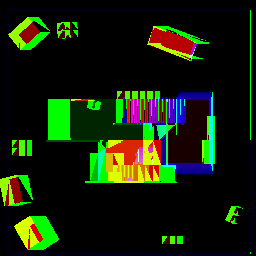
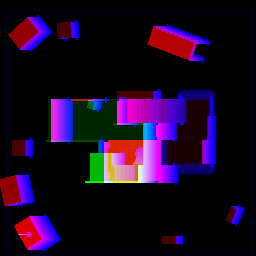
好像计算没啥问题了，但是这方式确实有问题

diff --git a/Assets/ShadowTest/Custom/GenerateMapHeightTex.cs b/Assets/ShadowTest/Custom/GenerateMapHeightTex.cs
@@ -478,6 +478,8 @@ namespace ShadowTest.Custom {
                     triangleInfo.Vertices1 = math.mul(ShadowMatrix, meshInfoVo.MeshWordPos1);
                     triangleInfo.Vertices2 = math.mul(ShadowMatrix, meshInfoVo.MeshWordPos2);
                     triangleInfo.Vertices3 = math.mul(ShadowMatrix, meshInfoVo.MeshWordPos3);
+                    triangleInfo.Normal = math.normalize(math.cross(triangleInfo.Vertices2 - triangleInfo.Vertices1,
+                        triangleInfo.Vertices3 - triangleInfo.Vertices2));
                 }
 
                 CheckBounds(ref triangleInfo.Left, ref triangleInfo.Right, ref triangleInfo.Bottom,
@@ -577,8 +579,7 @@ namespace ShadowTest.Custom {
                         tempPoint.y = triangleInfo.Vertices3.y;
                     }
                     //tempPoint = math.mul(InvShadowMatrix, tempPoint);
-                    var tempH =
-                        -(tempPoint.x * triangleInfo.Normal.x + tempPoint.z * triangleInfo.Normal.z) /
+                    var tempH = -(tempPoint.x * triangleInfo.Normal.x + tempPoint.z * triangleInfo.Normal.z) /
                         triangleInfo.Normal.y + tempPoint.y - Bottom;
 
                     if(tempH < MaxHeight1) {
